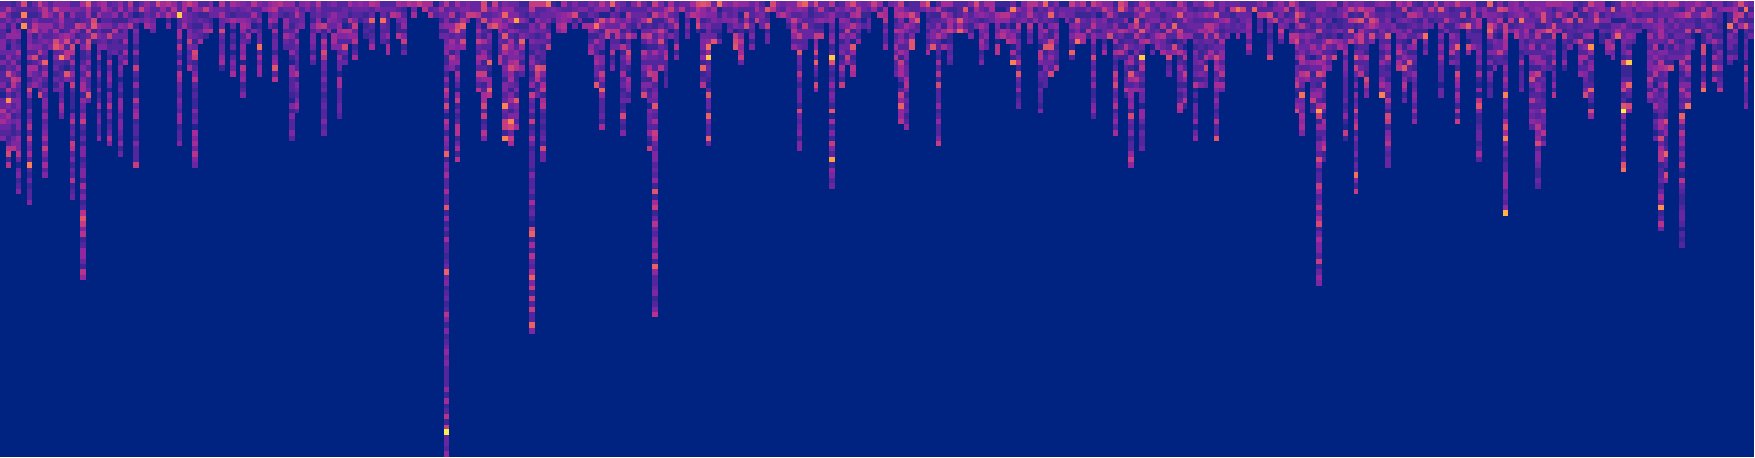
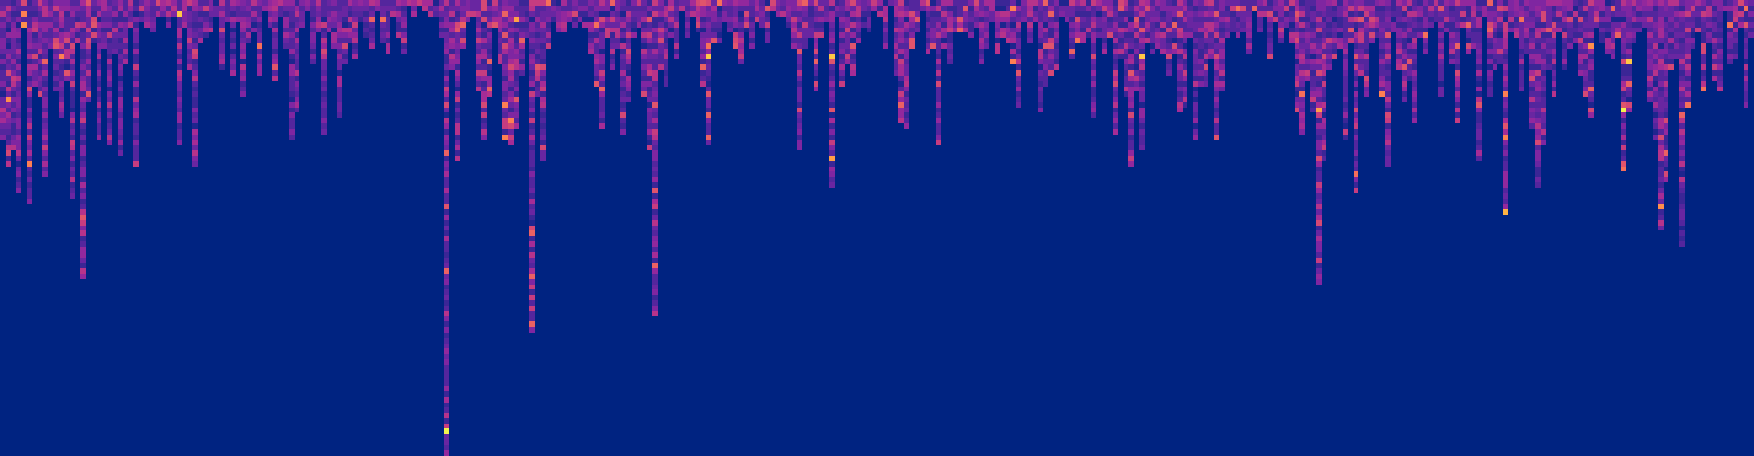
Documentation improvements

Changed region(s): [[0.0, 0.0, 1.0, 0.3684], [0.0, 0.9825, 1.0, 1.0], [0.0, 0.1228, 0.0616, 0.2149]]

diff --git a/split_book_to_chapters.py b/split_book_to_chapters.py
@@ -1,23 +1,27 @@
 import tkinter
 
+
 def split_by_chapter(book_file):
-	chapter_split = book_file.split('Chapter ') # Obviously not perfect, but works in many cases
-	return chapter_split
+    chapter_split = book_file.split('Chapter ')  # Obviously not perfect, but works in many cases
+    return chapter_split
+
 
 def write_chapters_to_files(chapter_split):
-	chap_num = 0
-	for i in chapter_split:
-		with open('ch' + str(chap_num) + '.txt', 'w') as w:
-			w.write(i)
-		chap_num += 1
+    chap_num = 0
+    for i in chapter_split:
+        with open('ch' + str(chap_num) + '.txt', 'w') as w:
+            w.write(i)
+        chap_num += 1
+
 
 def main():
     chosen_book_file = tkinter.filedialog.askopenfilename()
     with open(chosen_book_file, 'r') as r:
         book_file = r.read()
 
-	chapter_split = split_by_chapter(book_file)
-	write_chapters_to_files(chapter_split)
+    chapter_split = split_by_chapter(book_file)
+    write_chapters_to_files(chapter_split)
+
 
 if __name__ == '__main__':
-	main()
+    main()

diff --git a/book_map.py b/book_map.py
@@ -41,7 +41,7 @@ def numpy_image_maker(book_map, book_name):
     plt.axis('off')
 
     # Probably the most important value, this is the colormap
-    cmap = 'Blues_r'
+    cmap = 'viridis'
     # More info at: https://matplotlib.org/users/colormaps.html
 
     dpi = 100  # Default for this with direct write is 80, but images our size don't warrant compression

diff --git a/README.md b/README.md
@@ -1,11 +1,17 @@
 ## Novel Heatmap  
 ![light](/images/the_last_question_map_image.png?raw=true "Isaac Asimov's The Last Question")
+Image created from Isaac Asimov's _The Last Question_.
 
-Creates a heatmap of the words in a book from a .txt file, image output looks somewhat like a skyline. This works by making a matrix of the number of characters in each words in a sentence; each sentence is a vector and each number corresponds to the length of the word at its corresponding position.  
+# How it works
+Creates a heatmap of the words in a book from a .txt file, image output looks somewhat like a skyline. This works by making a matrix of the sentences in the input file(s); each sentence is a vector and each number corresponds to the length of the word at its corresponding position.  
 i.e.: "The quick brown fox jumped over the lazy dog" becomes [3 5 5 3 6 4 3 4 3] and is represented thusly  
-![fox](/images/fox_map_image.png?raw=true)
+![fox](/images/fox_map_image.png?raw=true "Example vector")
 
-The image at the top was created from Isaac Asimov's _The Last Question_.
+# Workflow
+The images can be made by running `book_map.py` and selecting file(s) via a tkinter GUI; there are various options within the code for things like "normalizing" the data when processing multiple files and outputting `.mat` files for use with other programs such as Octave.   
+To convert an `.epub` book to a `.txt` file, you can use the `ebook-convert` command in terminal if you have Calibre installed.  
+Creating an image works best with single chapters, so I also wrote a script to help convert the output of `ebook-convert` into smaller files, the delimiter is currently the string "Chapter ", so it will likely need some cleaning up if it works at all.  
+For \*nix users, `autotrim.sh` can be used to remove whitespace from all images.
 
-To convert an `.epub` book to a `.txt` file, you can use Calibre's `ebook-convert` command in terminal.  
-Creating an image works best with single chapters, so I also wrote a script to help convert the output of `ebook-convert` into smaller files, the delimeter is currently the string "Chapter ", so it will likely need some cleaning up if it works at all.
+# Normalization
+Multiple chapters (files) are "normalized" by adding 0's to the end of vectors until they match the length of the longest sentence. Each chapter is then normalized by length by adding 0 filled vectors until all matrices are the same size.
